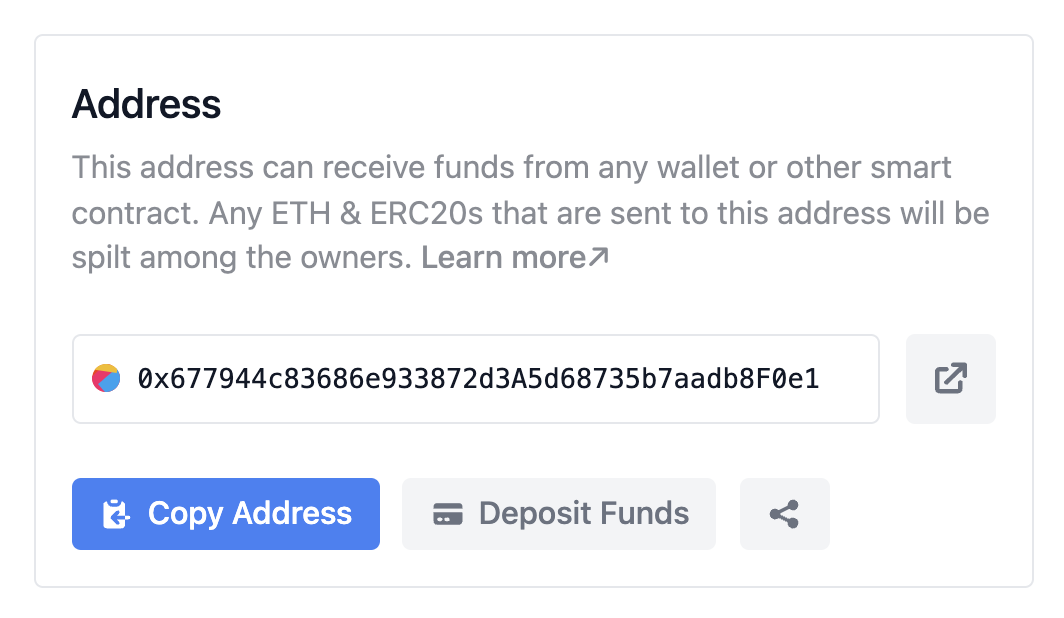
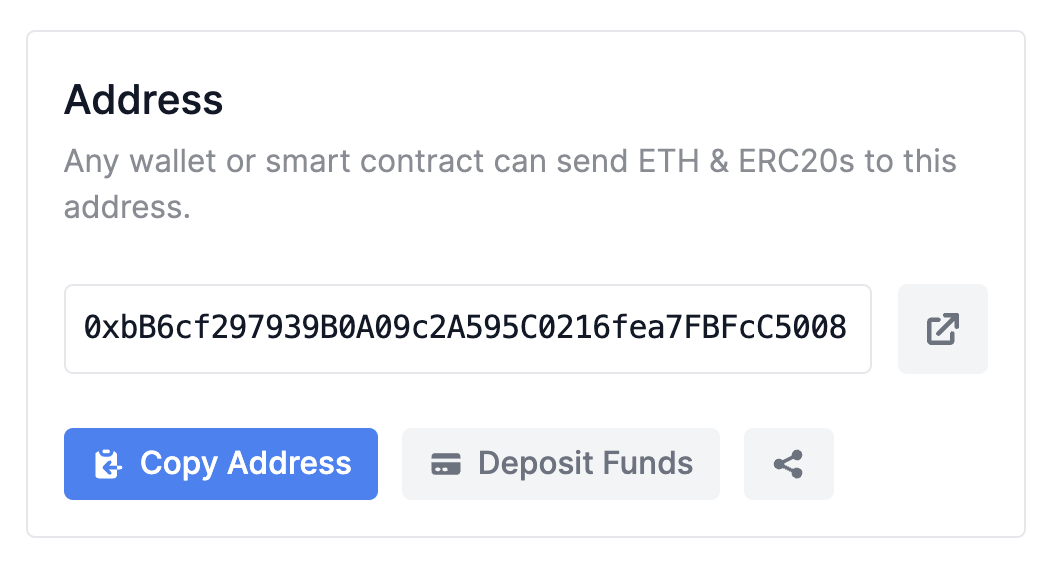
replace Owner with Recipient PANDE-189

diff --git a/theme.config.js b/theme.config.js
@@ -6,6 +6,7 @@ export default {
   titleSuffix: ' – 0xSplits',
   logo: (
     <>
+      <img src="/icon.svg" className="mr-2" style={{ width: 24 }} />
       <span className="mr-2 font-semibold hidden md:inline">0xSplits</span>
       <span className="text-gray-600 font-normal hidden md:inline">
         Trustlessly share onchain income
